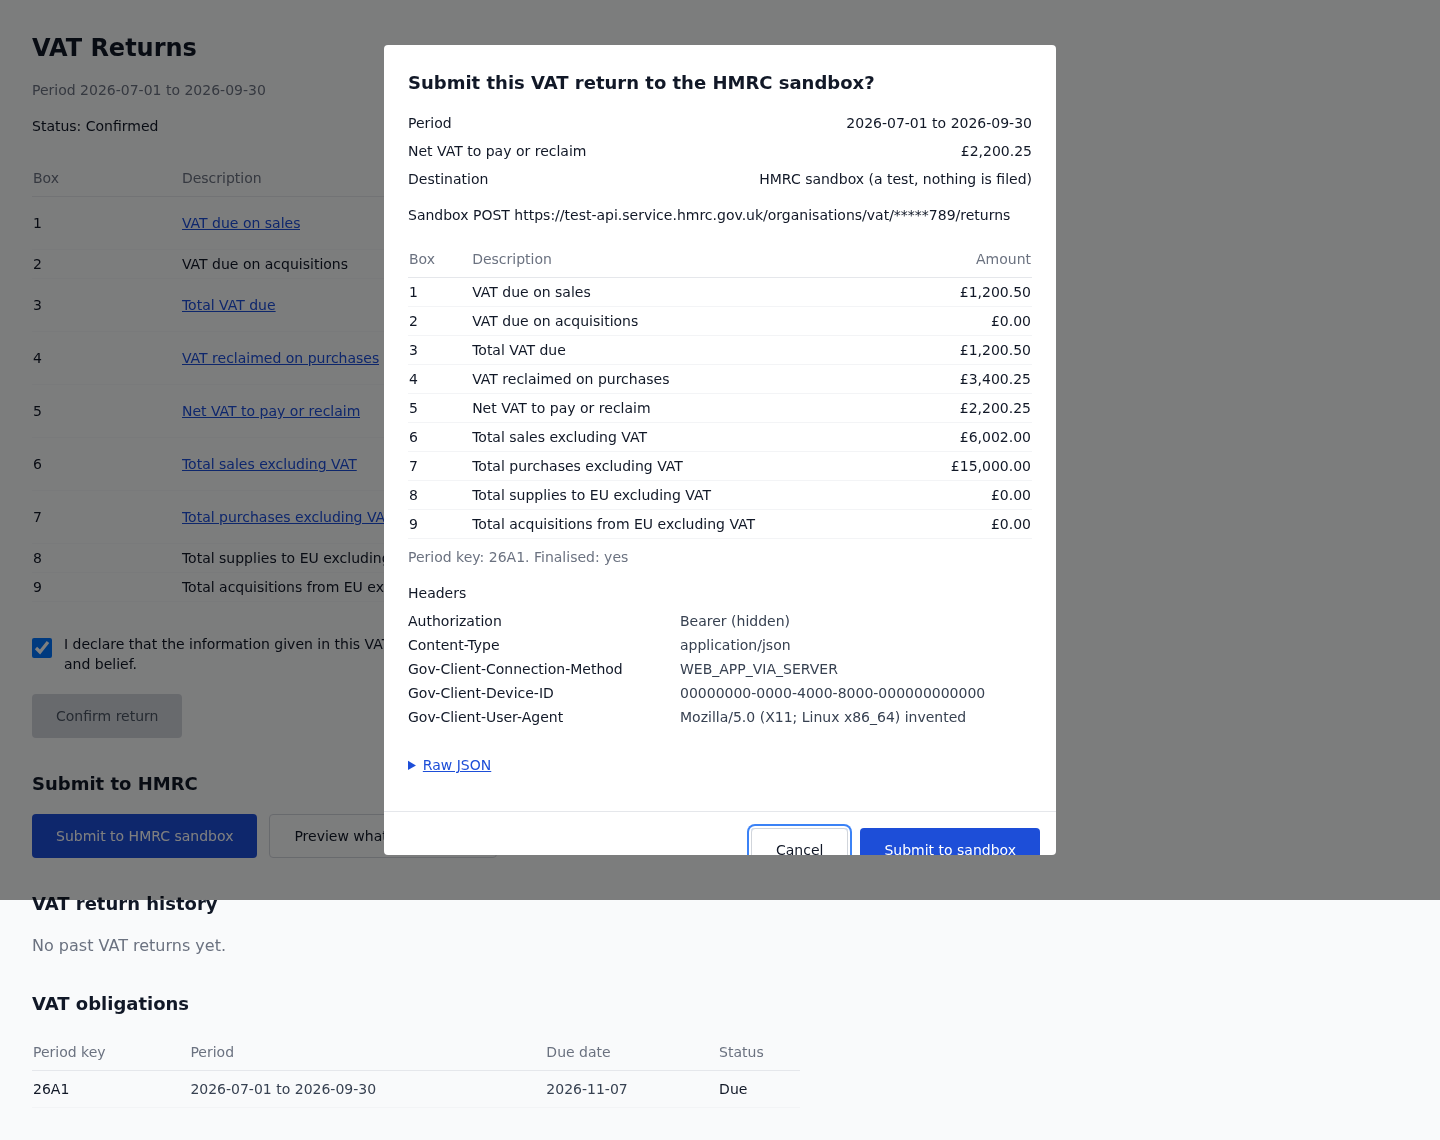
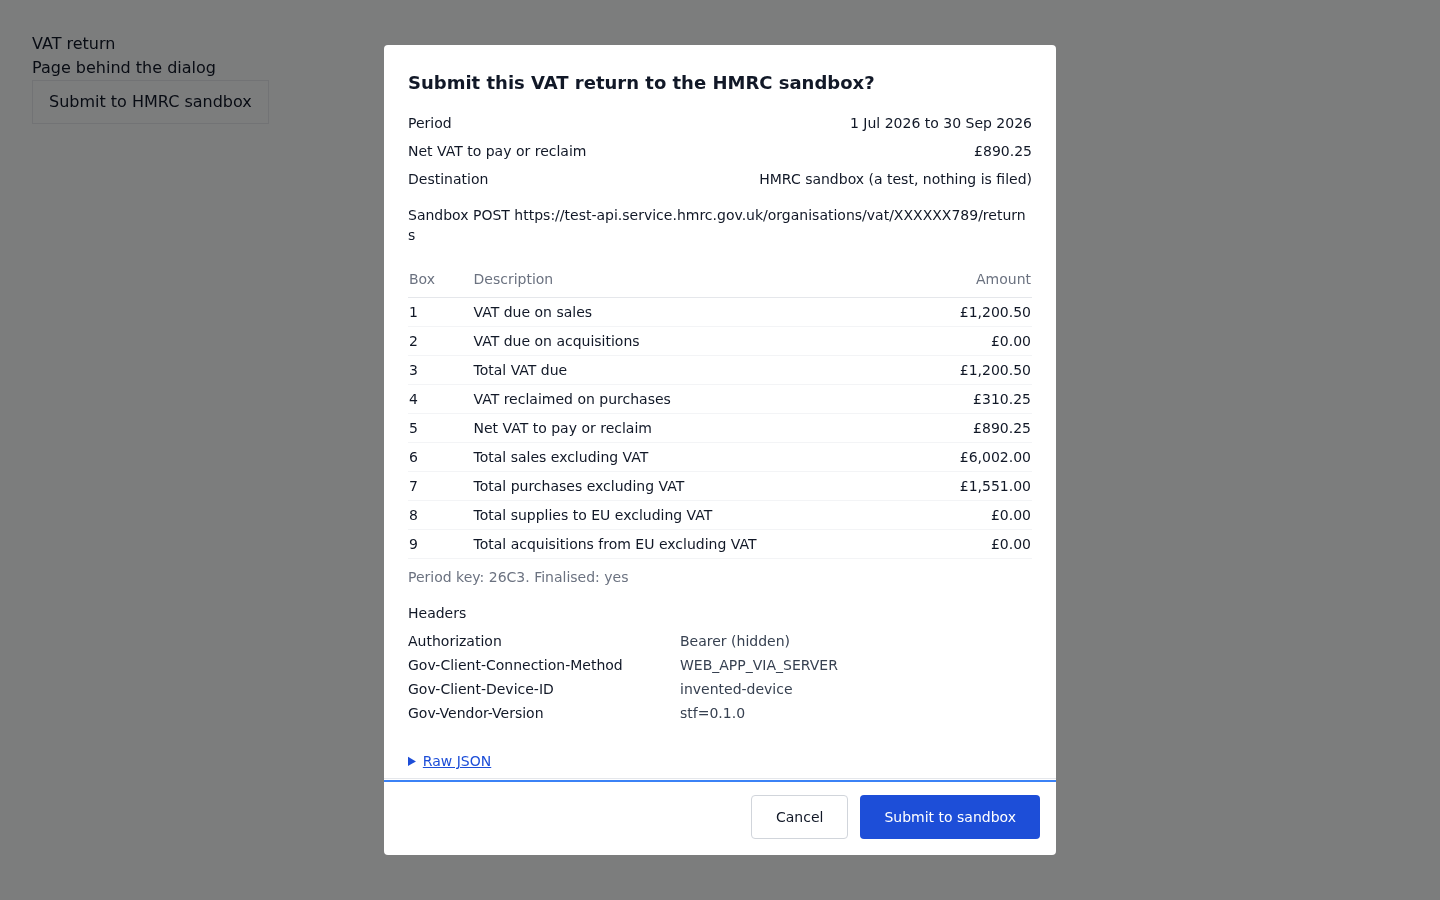
STF-56: pin submit dialog footer outside the scrolling body and recapture dialog screenshots

diff --git a/src/pages/VatPage.tsx b/src/pages/VatPage.tsx
@@ -435,9 +435,9 @@ function SubmitDialog({ open, periodLabel, netVatPence, live, preview, onCancel,
       ref={dialogRef}
       aria-labelledby="vat-submit-dialog-title"
       onClose={onCancel}
-      className="w-full max-w-2xl max-h-[90vh] overflow-y-auto rounded p-0 backdrop:bg-black/50"
+      className="w-full max-w-2xl max-h-[90vh] flex-col rounded p-0 open:flex backdrop:bg-black/50"
     >
-      <div className="p-6">
+      <div className="min-h-0 flex-1 overflow-y-auto p-6">
         <h2 id="vat-submit-dialog-title" className="text-lg font-semibold text-gray-900">
           {live ? 'Submit this VAT return to HMRC?' : 'Submit this VAT return to the HMRC sandbox?'}
         </h2>
@@ -458,7 +458,7 @@ function SubmitDialog({ open, periodLabel, netVatPence, live, preview, onCancel,
         {live && <p className="mt-4 text-sm text-gray-900">A live submission cannot be undone.</p>}
         <PreviewResult mutation={preview} />
       </div>
-      <div className="flex justify-end gap-3 border-t border-gray-200 p-4">
+      <div className="flex shrink-0 justify-end gap-3 border-t border-gray-200 p-4">
         <button type="button" onClick={onCancel} className="min-h-[44px] rounded border border-gray-300 px-6 text-sm font-medium text-gray-900">
           Cancel
         </button>
